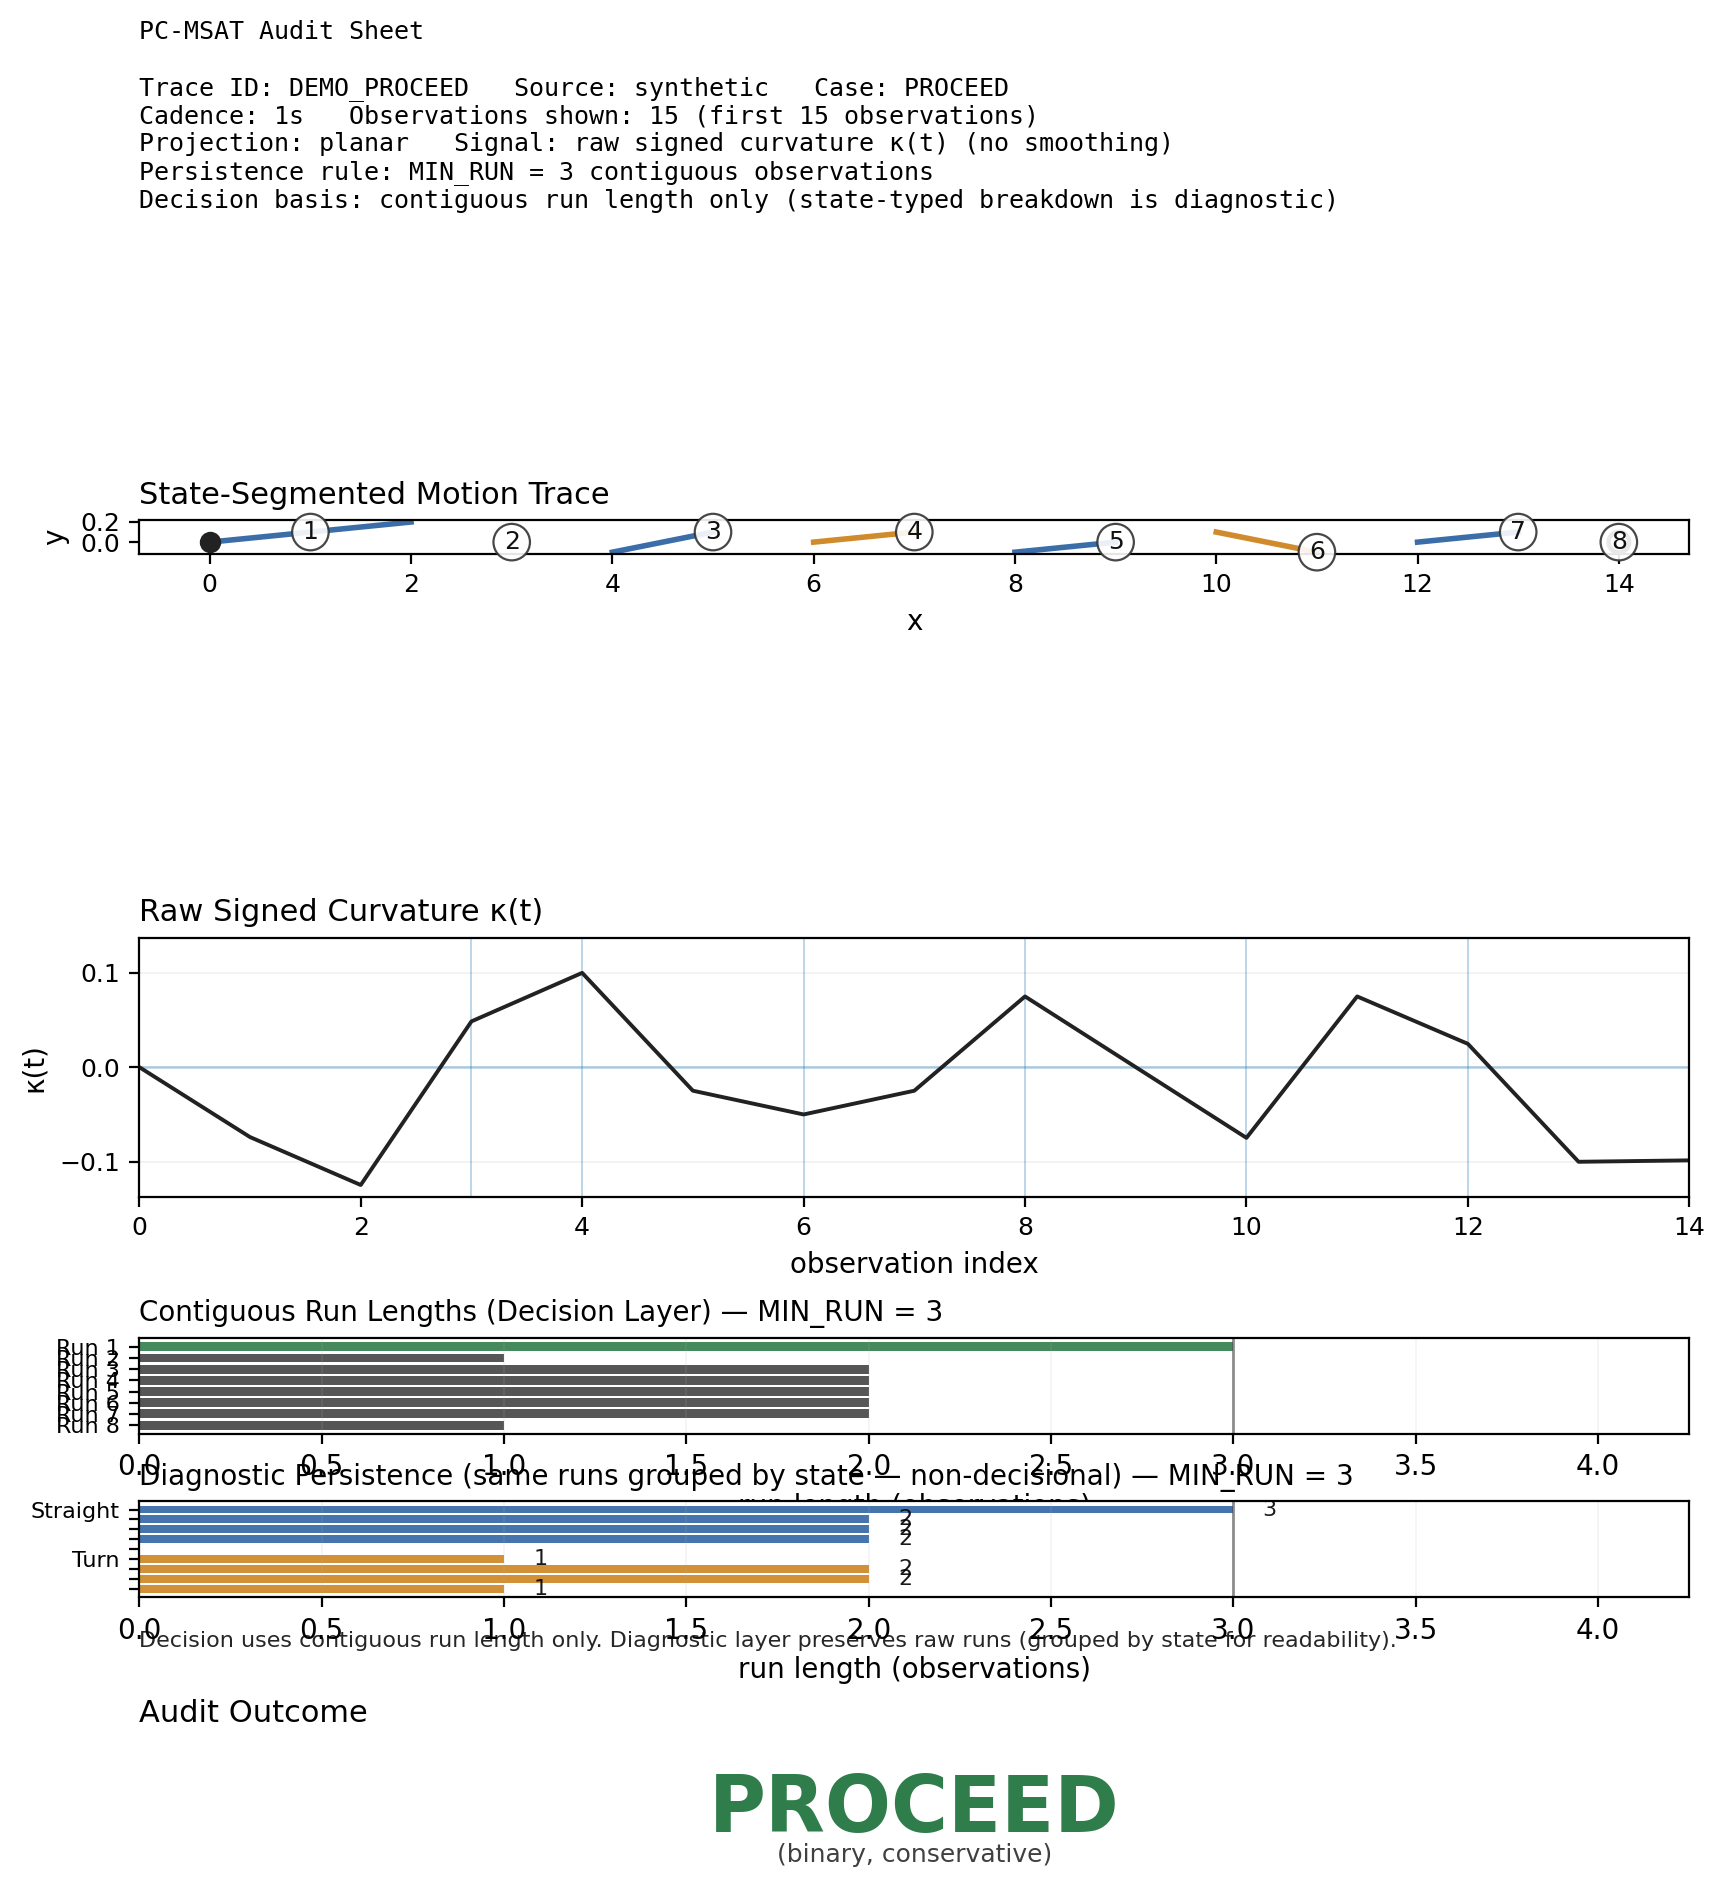
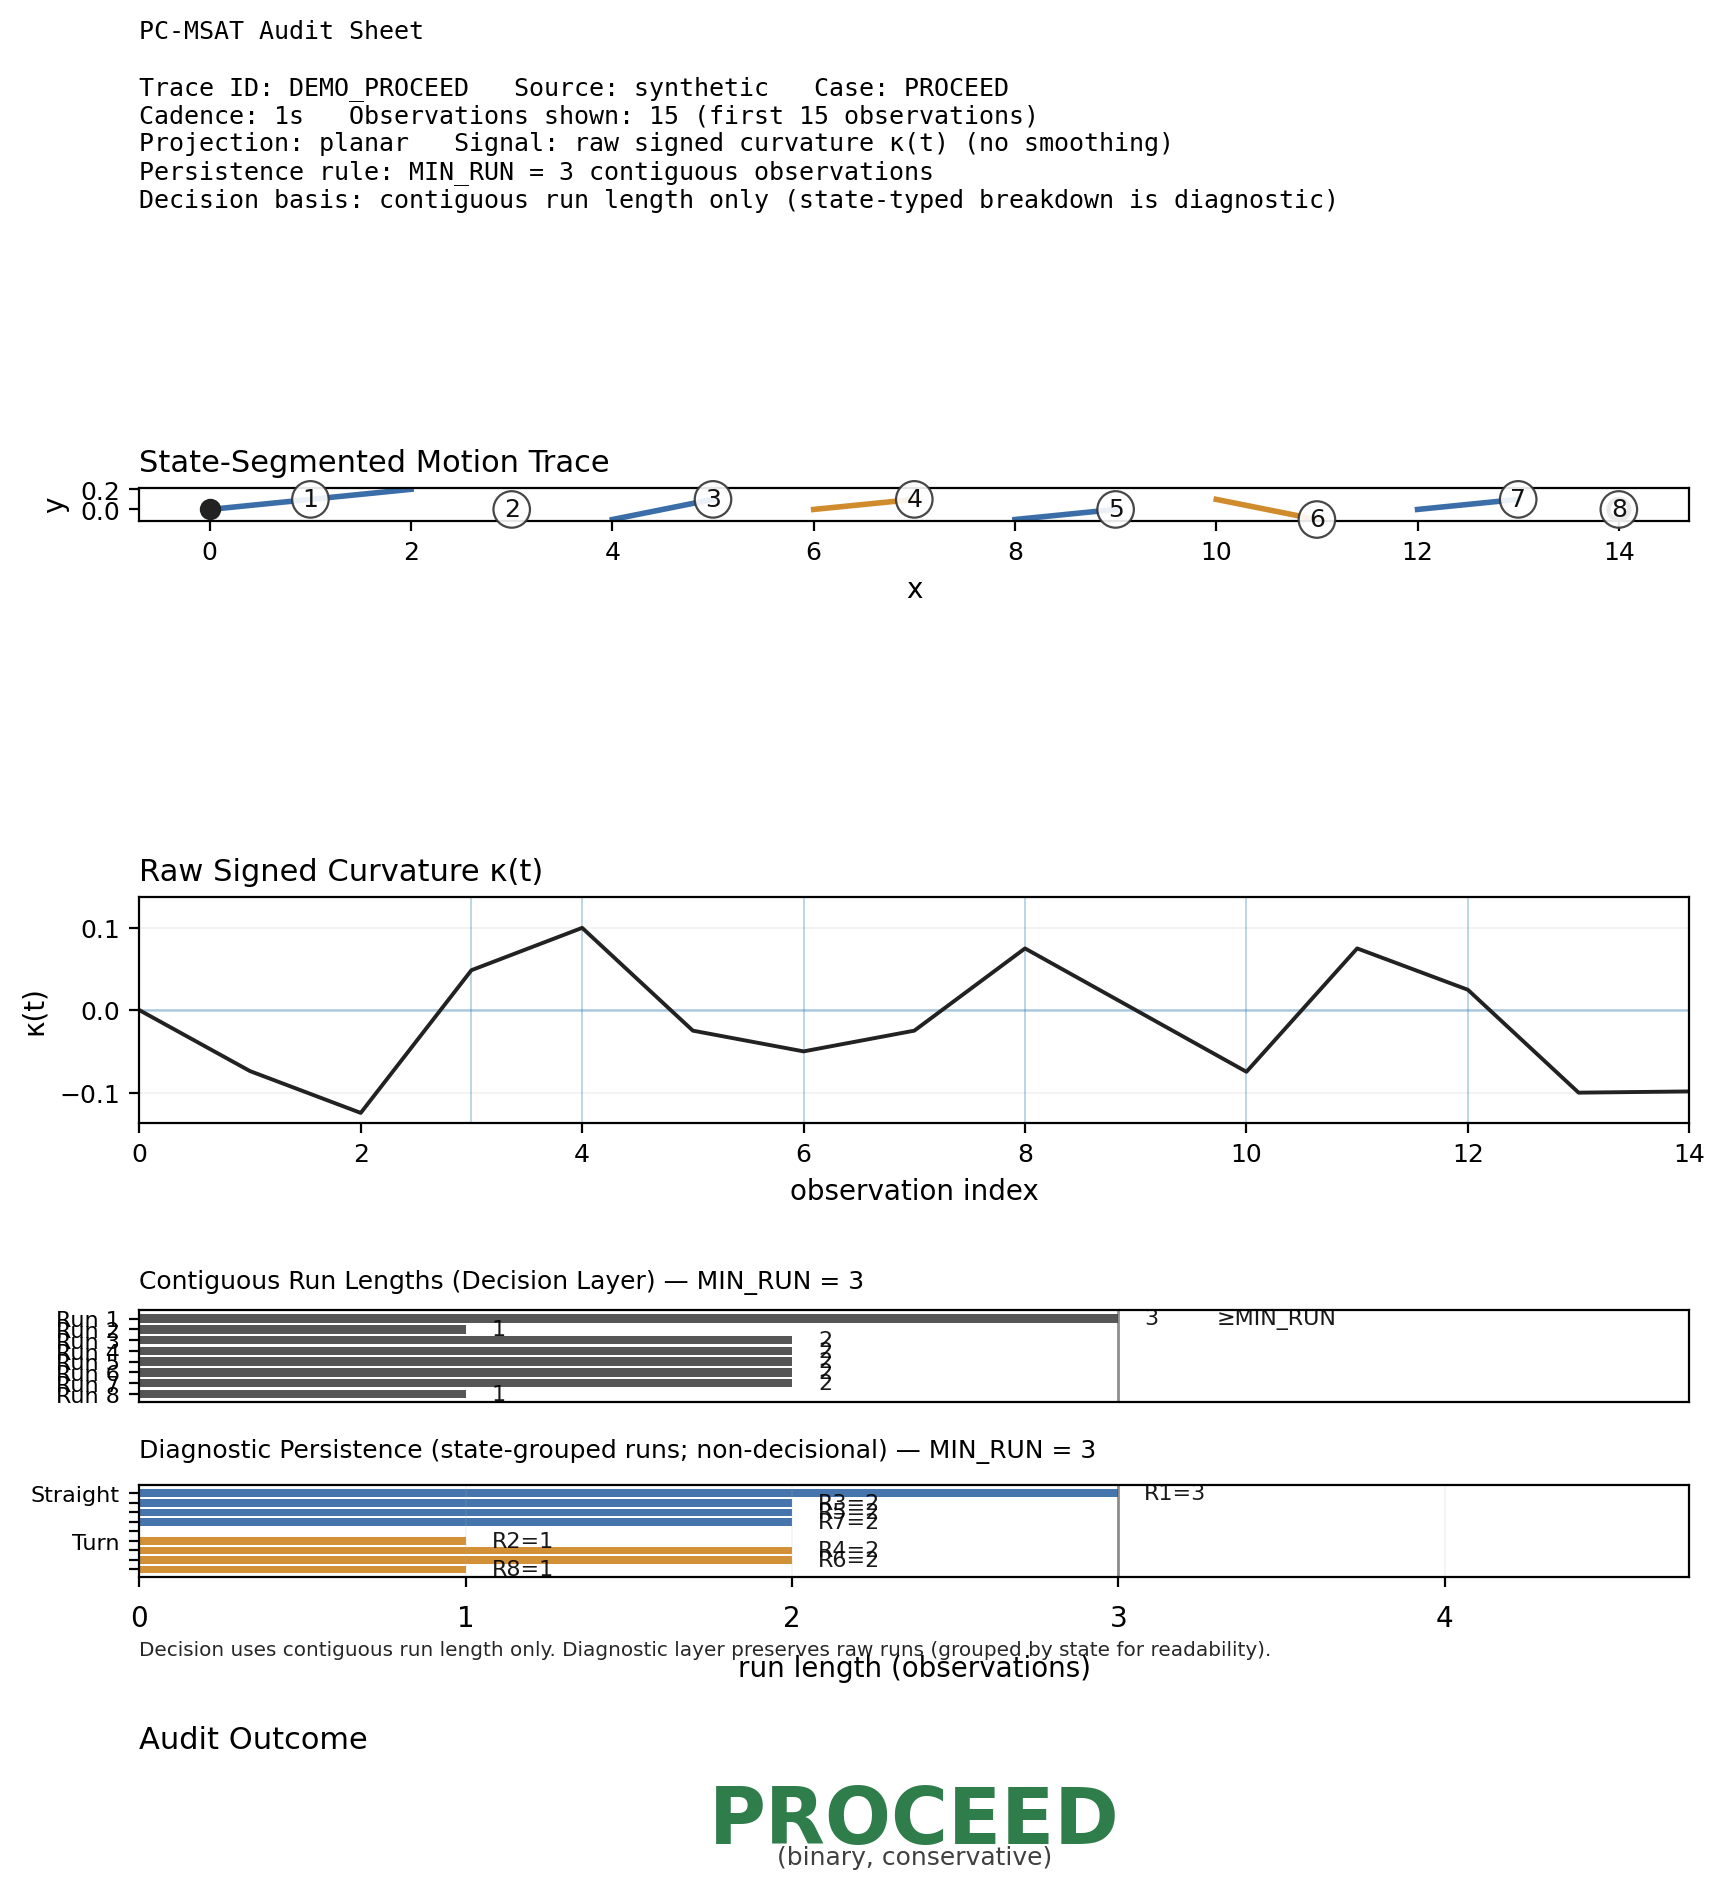
Finalize PC-MSAT audit renderer and paired proceed/withhold demonstration visuals

diff --git a/renderer/render_pcmsat_audit.py b/renderer/render_pcmsat_audit.py
@@ -149,16 +149,13 @@ def draw_state_colored_trajectory(
 
     for run_idx, s, start, length in runs:
         end = start + length
-
-        # draw trajectory segment
         ax.plot(x[start:end], y[start:end], color=SOD_COLORS[s], linewidth=2)
 
-        # compute midpoint for index label
+        # midpoint for index marker
         mid = start + length // 2
         xm = x[mid]
         ym = y[mid]
 
-        # run index marker
         ax.text(
             xm,
             ym,
@@ -223,17 +220,21 @@ def draw_curvature_panel(ax, kappa: np.ndarray, boundaries: List[int]) -> None:
 def draw_persistence_panel(
     ax_top, ax_bottom, runs: List[Tuple[int, str, int, int]], min_run: int
 ) -> None:
+    """
+    Panel 3: Persistence
+    - Top (decision layer): contiguous run lengths, state-agnostic (neutral bars), compared to MIN_RUN.
+    - Bottom (diagnostic layer): the SAME runs, regrouped by state for readability, preserving raw run identity.
+      Each diagnostic bar is labeled "R#=len".
+    Decision basis is contiguous run length only.
+    """
+
     def _annotate_barh(ax, x: float, y: float, text: str, pad: float = 0.08) -> None:
-        """
-        Place a small label just to the right of a bar end.
-        Assumes x-limits are already set to include some breathing room.
-        """
         ax.text(x + pad, y, text, va="center", ha="left", fontsize=8, alpha=0.9)
 
-    # Shared x-limit so both panels align and annotations have room.
+    # Shared x-limit (alignment + breathing room)
     run_lengths = [length for (_, _, _, length) in runs]
     max_len = max(run_lengths, default=0)
-    xmax = max(max_len, min_run) + 1.25  # breathing room for labels
+    xmax = max(max_len, min_run) + 1.75  # slightly more room for R#=len labels
     if xmax <= 0:
         xmax = 1.5
 
@@ -242,69 +243,94 @@ def draw_persistence_panel(
     # -----------------------------
     y = np.arange(len(run_lengths))
 
-    colors = ["#2F7D4A" if length >= min_run else "#444444" for length in run_lengths]
-
-    ax_top.barh(y, run_lengths, color=colors, alpha=0.9)
+    ax_top.barh(y, run_lengths, color="#444444", alpha=0.9)
     ax_top.axvline(min_run, color="#444444", linewidth=1.0, alpha=0.6)
     ax_top.set_xlim(0, xmax)
 
     ax_top.set_yticks(y)
     ax_top.set_yticklabels([f"Run {i+1}" for i in y], fontsize=8)
-    ax_top.set_xlabel("run length (observations)")
+
+    # Force top x-axis completely off
+    ax_top.set_xlabel("")
+    ax_top.set_xticks([])
+    ax_top.tick_params(
+        axis="x",
+        which="both",
+        bottom=False,
+        top=False,
+        labelbottom=False,
+        labeltop=False,
+    )
+
     ax_top.set_title(
         f"Contiguous Run Lengths (Decision Layer) — MIN_RUN = {min_run}",
-        fontsize=10,
+        fontsize=9,
         loc="left",
+        pad=8,
     )
     ax_top.grid(axis="x", linestyle="-", linewidth=0.6, alpha=0.15)
     ax_top.invert_yaxis()
 
+    # Annotate decision bars with run length; mark threshold-crossing runs explicitly.
+    for i, length in enumerate(run_lengths):
+        if length > 0:
+            _annotate_barh(
+                ax_top, float(length), float(y[i]), str(int(length)), pad=0.08
+            )
+        if length >= min_run:
+            _annotate_barh(ax_top, float(length), float(y[i]), "≥MIN_RUN", pad=0.30)
+
     # ----------------------------------------
     # Diagnostic layer (state-typed; context only)
-    # Grouped by state for readability; raw runs preserved.
+    # Grouped by state; RAW runs preserved via run_idx.
+    # Each bar label: R#=len
     # ----------------------------------------
-    by_state: Dict[str, List[int]] = {s: [] for s in ALLOWED_STATES}
-    for _, s, _, length in runs:
-        by_state[s].append(length)
+    by_state: Dict[str, List[Tuple[int, int]]] = {s: [] for s in ALLOWED_STATES}
+    for run_idx, s, _, length in runs:
+        by_state[s].append((run_idx, length))
 
     diag_states: List[str] = []
+    diag_run_ids: List[int] = []
     diag_lengths: List[int] = []
     diag_labels: List[str] = []
 
     for s in ALLOWED_STATES:
-        lengths = by_state[s]
-        if not lengths:
+        items = by_state[s]
+        if not items:
             continue
 
-        for i, length in enumerate(lengths):
+        for i, (run_idx, length) in enumerate(items):
             diag_states.append(s)
+            diag_run_ids.append(run_idx)
             diag_lengths.append(length)
             diag_labels.append(s if i == 0 else "")
 
         # spacer row between state groups (transparent)
-        diag_states.append("Straight")  # placeholder; will be fully transparent
+        diag_states.append("Straight")
+        diag_run_ids.append(-1)
         diag_lengths.append(0)
         diag_labels.append("")
 
     # drop trailing spacer
     if diag_lengths and diag_lengths[-1] == 0:
         diag_states.pop()
+        diag_run_ids.pop()
         diag_lengths.pop()
         diag_labels.pop()
 
     y2 = np.arange(len(diag_lengths))
 
-    colors: List[str] = []
+    diag_colors: List[str] = []
     alphas: List[float] = []
     for s, length in zip(diag_states, diag_lengths):
         if length == 0:
-            colors.append("#FFFFFF")
+            diag_colors.append("#FFFFFF")
             alphas.append(0.0)
         else:
-            colors.append(SOD_COLORS[s])
+            diag_colors.append(SOD_COLORS[s])
             alphas.append(0.95)
 
-    bars = ax_bottom.barh(y2, diag_lengths, color=colors)
+    bars = ax_bottom.barh(y2, diag_lengths, color=diag_colors)
     for bar, a in zip(bars, alphas):
         bar.set_alpha(a)
 
@@ -313,26 +339,41 @@ def draw_persistence_panel(
 
     ax_bottom.set_yticks(y2)
     ax_bottom.set_yticklabels(diag_labels, fontsize=8)
-    ax_bottom.set_xlabel("run length (observations)")
+
+    # Force bottom axis to own the x-axis labels/ticks
+    ax_bottom.set_xlabel("run length (observations)", labelpad=8)
+    ax_bottom.tick_params(
+        axis="x",
+        which="both",
+        top=False,
+        labeltop=False,
+        bottom=True,
+        labelbottom=True,
+        pad=6,
+    )
+
     ax_bottom.set_title(
-        f"Diagnostic Persistence (same runs grouped by state — non-decisional) — MIN_RUN = {min_run}",
-        fontsize=10,
+        f"Diagnostic Persistence (state-grouped runs; non-decisional) — MIN_RUN = {min_run}",
+        fontsize=9,
         loc="left",
+        pad=10,
     )
     ax_bottom.grid(axis="x", linestyle="-", linewidth=0.6, alpha=0.15)
     ax_bottom.invert_yaxis()
 
-    # ---- NEW: annotate run lengths on diagnostic bars (skip spacer rows) ----
-    for yi, length in zip(y2, diag_lengths):
-        if length > 0:
-            _annotate_barh(ax_bottom, float(length), float(yi), str(int(length)))
+    # Annotate diagnostic bars as R#=len (skip spacer rows).
+    for yi, run_id, length in zip(y2, diag_run_ids, diag_lengths):
+        if length > 0 and run_id >= 0:
+            label = f"R{run_id+1}={int(length)}"
+            _annotate_barh(ax_bottom, float(length), float(yi), label, pad=0.08)
 
+    # footnote lower + slightly smaller
     ax_bottom.text(
         0.0,
-        -0.35,
+        -0.68,
         "Decision uses contiguous run length only. Diagnostic layer preserves raw runs (grouped by state for readability).",
         transform=ax_bottom.transAxes,
-        fontsize=8,
+        fontsize=7.2,
         va="top",
         ha="left",
         alpha=0.85,
@@ -385,8 +426,8 @@ def render_audit_sheet(df: pd.DataFrame, meta: Meta, out_path: Path) -> None:
     gs = GridSpec(
         nrows=5,
         ncols=1,
-        height_ratios=[0.9, 4, 2, 2, 1],
-        hspace=0.55,
+        height_ratios=[0.9, 4, 2.2, 2.6, 1],
+        hspace=0.85,
     )
 
     ax_header = fig.add_subplot(gs[0])
@@ -412,12 +453,11 @@ def render_audit_sheet(df: pd.DataFrame, meta: Meta, out_path: Path) -> None:
     ax2.set_title("Raw Signed Curvature κ(t)", fontsize=11, loc="left")
     draw_curvature_panel(ax2, kappa, boundaries)
 
-    gs_p3 = gs[3].subgridspec(2, 1, height_ratios=[1, 1], hspace=0.7)
+    gs_p3 = gs[3].subgridspec(2, 1, height_ratios=[1, 1], hspace=0.90)
     ax3a = fig.add_subplot(gs_p3[0])
     ax3b = fig.add_subplot(gs_p3[1])
 
     ax3a.set_title("Persistence Analysis", fontsize=11, loc="left", pad=14)
-
     draw_persistence_panel(ax3a, ax3b, runs, meta.min_run)
 
     ax4 = fig.add_subplot(gs[4])
